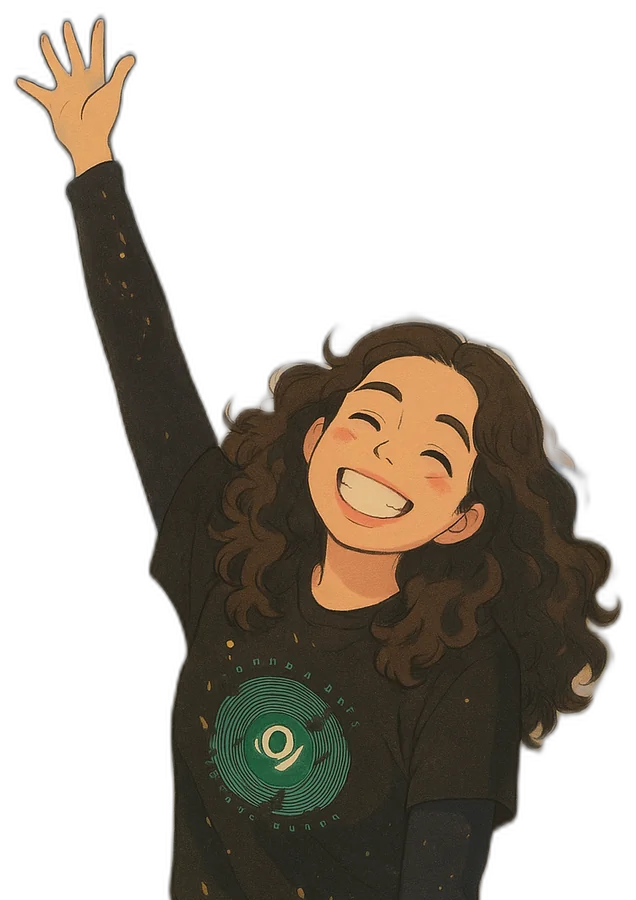
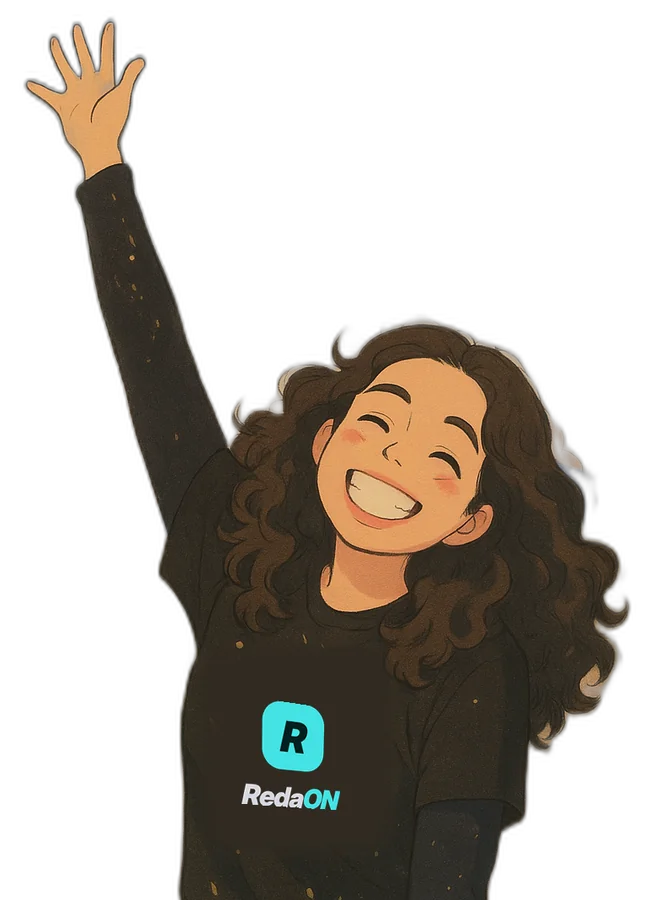
Início v4-1: cartão novo (galeria com a marca, fotos, C1–C5 por faixa, status em aba)

diff --git a/inicio.html b/inicio.html
@@ -3,8 +3,9 @@
 <head>
 <meta charset="utf-8"/>
 <meta content="width=device-width, initial-scale=1.0" name="viewport"/>
-<title>RedaON | Início v4-0</title>
-<!-- RedaON · Portal do Aluno · Início · v4-0 · sobre aluno-base-v6 -->
+<title>RedaON | Início v4-1</title>
+<!-- RedaON · Portal do Aluno · Início · v4-1 · sobre aluno-base-v6 -->
+<!-- v4-1 (07/09/2026): avatares com a marca RedaON; foto de capa antiga (pré-v4) não entra no cartão; primeiro acesso abre a galeria uma vez e a linha sob o nome convida "Escolha seu personagem"; padrão sorteado pela conta -->
 <!-- v4-0 (06/09/2026): Cartão do Início novo (mockup final aprovado): layout aberto, C1–C5 por faixa (200 = ouro), Status do Aluno em aba, personagem da galeria / foto do aluno (arco ou recortada), bolinha com selo, enquadramento com zoom (cartão e bolinha) salvo em usuarios.cartao_enq/perfil_enq/avatar_galeria -->
 <!-- v3-11 (18/08/2026): capa e foto de perfil por REST direto do Storage (dbFetch autenticado) — o cliente supabase-js nunca existiu na página; upload/leitura estavam mortos desde o v3-10 -->
 <script>
@@ -281,7 +282,7 @@
     titulo: 'In\u00edcio',
     icone:  'edit_note',
     sino:   true,
-    versao: 'aluno \u00b7 in\u00edcio \u00b7 v4-0'
+    versao: 'aluno \u00b7 in\u00edcio \u00b7 v4-1'
   });
 
   // Sauda\u00e7\u00e3o
@@ -379,11 +380,19 @@
     });
     var pe = document.getElementById('pillEnqPerfil'); if (pe) pe.style.display = '';
   }
+  function personagemPadrao(){ var uid = uidAtual() || '', n = 0; for (var i = 0; i < uid.length; i++) n += uid.charCodeAt(i); return GALERIA[n % GALERIA.length]; }
+  function convidarEscolha(mostrar){
+    var l = document.getElementById('linhaCard'); if (!l) return;
+    if (mostrar) { l.innerHTML = '<a onclick="abrirGaleria()" style="color:var(--cyan);font-weight:700;cursor:pointer;">Escolha seu personagem \u203a</a>'; }
+    else { l.innerHTML = '&nbsp;'; }
+  }
   function renderArt() {
+    convidarEscolha(false);
     var av = _cartao.avatar ? GALERIA.filter(function(g){ return g.id === _cartao.avatar; })[0] : null;
     if (av) return mostrarArt('personagem', av.src);
-    if (_cartao.urlCartao) return mostrarArt(_cartao.enqCartao && _cartao.enqCartao.recortada ? 'recortada' : 'moldura', _cartao.urlCartao);
-    mostrarArt('personagem', GALERIA[0].src);   /* padrão atribuído */
+    if (_cartao.urlCartao && _cartao.enqCartao) return mostrarArt(_cartao.enqCartao.recortada ? 'recortada' : 'moldura', _cartao.urlCartao);
+    mostrarArt('personagem', personagemPadrao().src);   /* padrão sorteado pela conta, até o aluno escolher */
+    convidarEscolha(true);
   }
 
   async function carregarCartao() {
@@ -395,12 +404,17 @@
       if (row) { _cartao.avatar = row.avatar_galeria || null; _cartao.enqCartao = row.cartao_enq || null; _cartao.enqPerfil = row.perfil_enq || null; }
       var recortada = !!(_cartao.enqCartao && _cartao.enqCartao.recortada);
       var capa = await baixarImagemPrivada(_BUCKET_AVATAR + '/' + uid + (recortada ? '/capa.png' : '/capa.jpg'));
-      if (capa) { _cartao.urlCartao = capa; var pc = document.getElementById('pillEnqCartao'); if (pc) pc.style.display = recortada ? 'none' : ''; }
+      if (capa) { _cartao.urlCartao = capa; var pc = document.getElementById('pillEnqCartao'); if (pc) pc.style.display = (recortada || !_cartao.enqCartao) ? 'none' : ''; }
       else { var pc2 = document.getElementById('pillEnqCartao'); if (pc2) pc2.style.display = 'none'; }
       var perfil = await baixarImagemPrivada(_BUCKET_AVATAR + '/' + uid + '/perfil.jpg');
       if (perfil) aplicarFotoPerfil(perfil); else { var pp = document.getElementById('pillEnqPerfil'); if (pp) pp.style.display = 'none'; }
     } catch(e) { console.warn('[cartão]', e); }
     renderArt();
+    /* opção C: primeiro acesso sem escolha abre a galeria uma vez */
+    try {
+      var semEscolha = !_cartao.avatar && !(_cartao.urlCartao && _cartao.enqCartao);
+      if (semEscolha && !localStorage.getItem('redaon-galeria-convite')) { localStorage.setItem('redaon-galeria-convite', '1'); setTimeout(abrirGaleria, 600); }
+    } catch(e) {}
   }
 
   /* ─── galeria ─── */
@@ -411,7 +425,7 @@
       var sel = (_cartao.avatar === g.id);
       return '<a class="pill" onclick="escolherPersonagem(\'' + g.id + '\')"><span class="pillThumb" style="background-image:url(' + g.src + ');"></span>' + g.nome + '<i class="fim" style="opacity:' + (sel ? 1 : 0) + ';">\u2713</i></a>';
     }).join('');
-    var ck = document.getElementById('ckMinhaFoto'); if (ck) ck.style.opacity = (!_cartao.avatar && _cartao.urlCartao) ? 1 : 0;
+    var ck = document.getElementById('ckMinhaFoto'); if (ck) ck.style.opacity = (!_cartao.avatar && _cartao.urlCartao && _cartao.enqCartao) ? 1 : 0;
     abrirGaveta('gavetaGaleria');
   }
   async function escolherPersonagem(id) {
@@ -422,8 +436,11 @@
   async function usarMinhaFoto() {
     fecharGaveta('gavetaGaleria');
     if (!_cartao.urlCartao) { toast('Envie uma foto do cart\u00e3o primeiro.', 2600); escolherFoto(); return; }
-    _cartao.avatar = null; renderArt();
-    await salvarUsuario({ avatar_galeria: null });
+    _cartao.avatar = null;
+    if (!_cartao.enqCartao) _cartao.enqCartao = { v:4 };
+    renderArt();
+    await salvarUsuario({ avatar_galeria: null, cartao_enq: _cartao.enqCartao });
+    var pc = document.getElementById('pillEnqCartao'); if (pc) pc.style.display = _cartao.enqCartao.recortada ? 'none' : '';
   }
 
   /* ─── envio de fotos ─── */
@@ -471,7 +488,7 @@
       var ok = await enviarImagemPrivada(_BUCKET_AVATAR + '/' + uid + '/' + nome, blob, recortada ? 'image/png' : 'image/jpeg');
       if (!ok) throw new Error('upload recusado');
       _cartao.urlCartao = await baixarImagemPrivada(_BUCKET_AVATAR + '/' + uid + '/' + nome);
-      _cartao.enqCartao = recortada ? { recortada:true } : null;
+      _cartao.enqCartao = recortada ? { recortada:true } : { v:4 };
       _cartao.avatar = null;
       await salvarUsuario({ cartao_enq: _cartao.enqCartao, avatar_galeria: null });
       var pc = document.getElementById('pillEnqCartao'); if (pc) pc.style.display = recortada ? 'none' : '';
